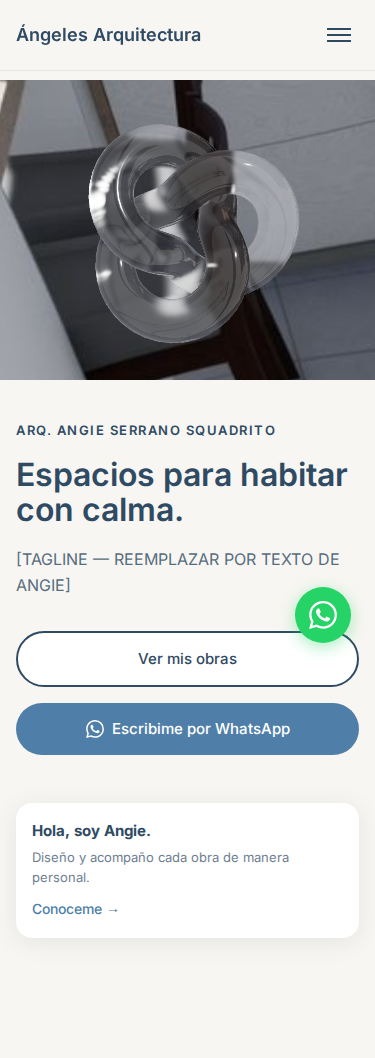
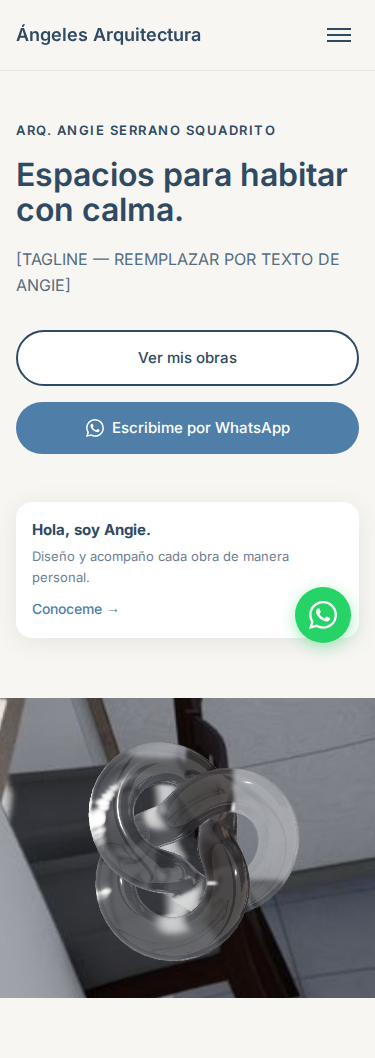
fix: Separate text and canvas into non-overlapping columns on desktop
- Desktop (>1024px): two-column grid layout - text left, canvas right
- Text column max-width 600px, canvas takes remaining space
- Tablet/mobile: stacked layout with canvas first (45-50vh), then text
- Add Playwright test at 1440x900 asserting no overlap
- Remove overlay system (no longer needed with column layout)
- All 11 tests passing including new intersection test
- Recaptured desktop screenshots

diff --git a/styles.css b/styles.css
@@ -126,18 +126,18 @@ a {
 .hero {
     position: relative;
     min-height: 100vh;
-    display: flex;
+    display: grid;
+    grid-template-columns: 1fr 1fr;
     align-items: center;
     padding-top: 80px;
+    gap: 48px;
     overflow: hidden;
 }
 
 .hero-canvas-container {
-    position: absolute;
-    top: 0;
-    left: 0;
-    right: 0;
-    bottom: 0;
+    position: relative;
+    height: 100vh;
+    width: 100%;
     z-index: 0;
 }
 
@@ -148,25 +148,13 @@ a {
 }
 
 .hero-overlay {
-    position: absolute;
-    top: 0;
-    left: 0;
-    right: 0;
-    bottom: 0;
-    background: linear-gradient(
-        135deg,
-        rgba(248, 246, 242, 0.85) 0%,
-        rgba(248, 246, 242, 0.75) 40%,
-        rgba(248, 246, 242, 0.65) 70%,
-        rgba(248, 246, 242, 0.5) 100%
-    );
-    z-index: 1;
+    display: none;
 }
 
 .hero-content {
     position: relative;
     z-index: 2;
-    max-width: 800px;
+    max-width: 600px;
     padding: 60px 0;
 }
 
@@ -928,6 +916,21 @@ section {
 
     .projects-grid {
         grid-template-columns: repeat(auto-fit, minmax(300px, 1fr));
+    }
+
+    .hero {
+        grid-template-columns: 1fr;
+        gap: 0;
+        min-height: auto;
+    }
+
+    .hero-canvas-container {
+        height: 50vh;
+        order: -1;
+    }
+
+    .hero-content {
+        padding: 40px 0 60px;
     }
 }
 

diff --git a/test-hero-transmission.spec.js b/test-hero-transmission.spec.js
@@ -67,16 +67,30 @@ test.describe('Hero Transmission WebGL', () => {
         const canvasZIndex = await canvasContainer.evaluate((el) => 
             window.getComputedStyle(el).zIndex
         );
-        const overlayZIndex = await overlay.evaluate((el) => 
-            window.getComputedStyle(el).zIndex
-        );
         const contentZIndex = await content.evaluate((el) => 
             window.getComputedStyle(el).zIndex
         );
         
         expect(parseInt(canvasZIndex)).toBe(0);
-        expect(parseInt(overlayZIndex)).toBe(1);
         expect(parseInt(contentZIndex)).toBe(2);
+    });
+
+    test('text and canvas do not overlap at 1440x900', async ({ page }) => {
+        await page.setViewportSize({ width: 1440, height: 900 });
+        await page.goto(BASE_URL);
+        
+        await page.waitForTimeout(1000);
+        
+        const textBox = await page.locator('.hero-content').boundingBox();
+        const canvasBox = await page.locator('#hero-canvas-container').boundingBox();
+        
+        expect(textBox).toBeTruthy();
+        expect(canvasBox).toBeTruthy();
+        
+        const textRight = textBox.x + textBox.width;
+        const canvasLeft = canvasBox.x;
+        
+        expect(textRight).toBeLessThanOrEqual(canvasLeft);
     });
 });
 

diff --git a/index.html b/index.html
@@ -58,8 +58,6 @@
 
     <!-- Hero Section -->
     <section class="hero" id="hero">
-        <div id="hero-canvas-container" class="hero-canvas-container"></div>
-        <div class="hero-overlay"></div>
         <div class="container">
             <div class="hero-content">
                 <p class="hero-subtitle">ARQ. ANGIE SERRANO SQUADRITO</p>
@@ -83,6 +81,7 @@
                 </div>
             </div>
         </div>
+        <div id="hero-canvas-container" class="hero-canvas-container"></div>
     </section>
 
     <!-- Obras Section (Built Projects) -->
